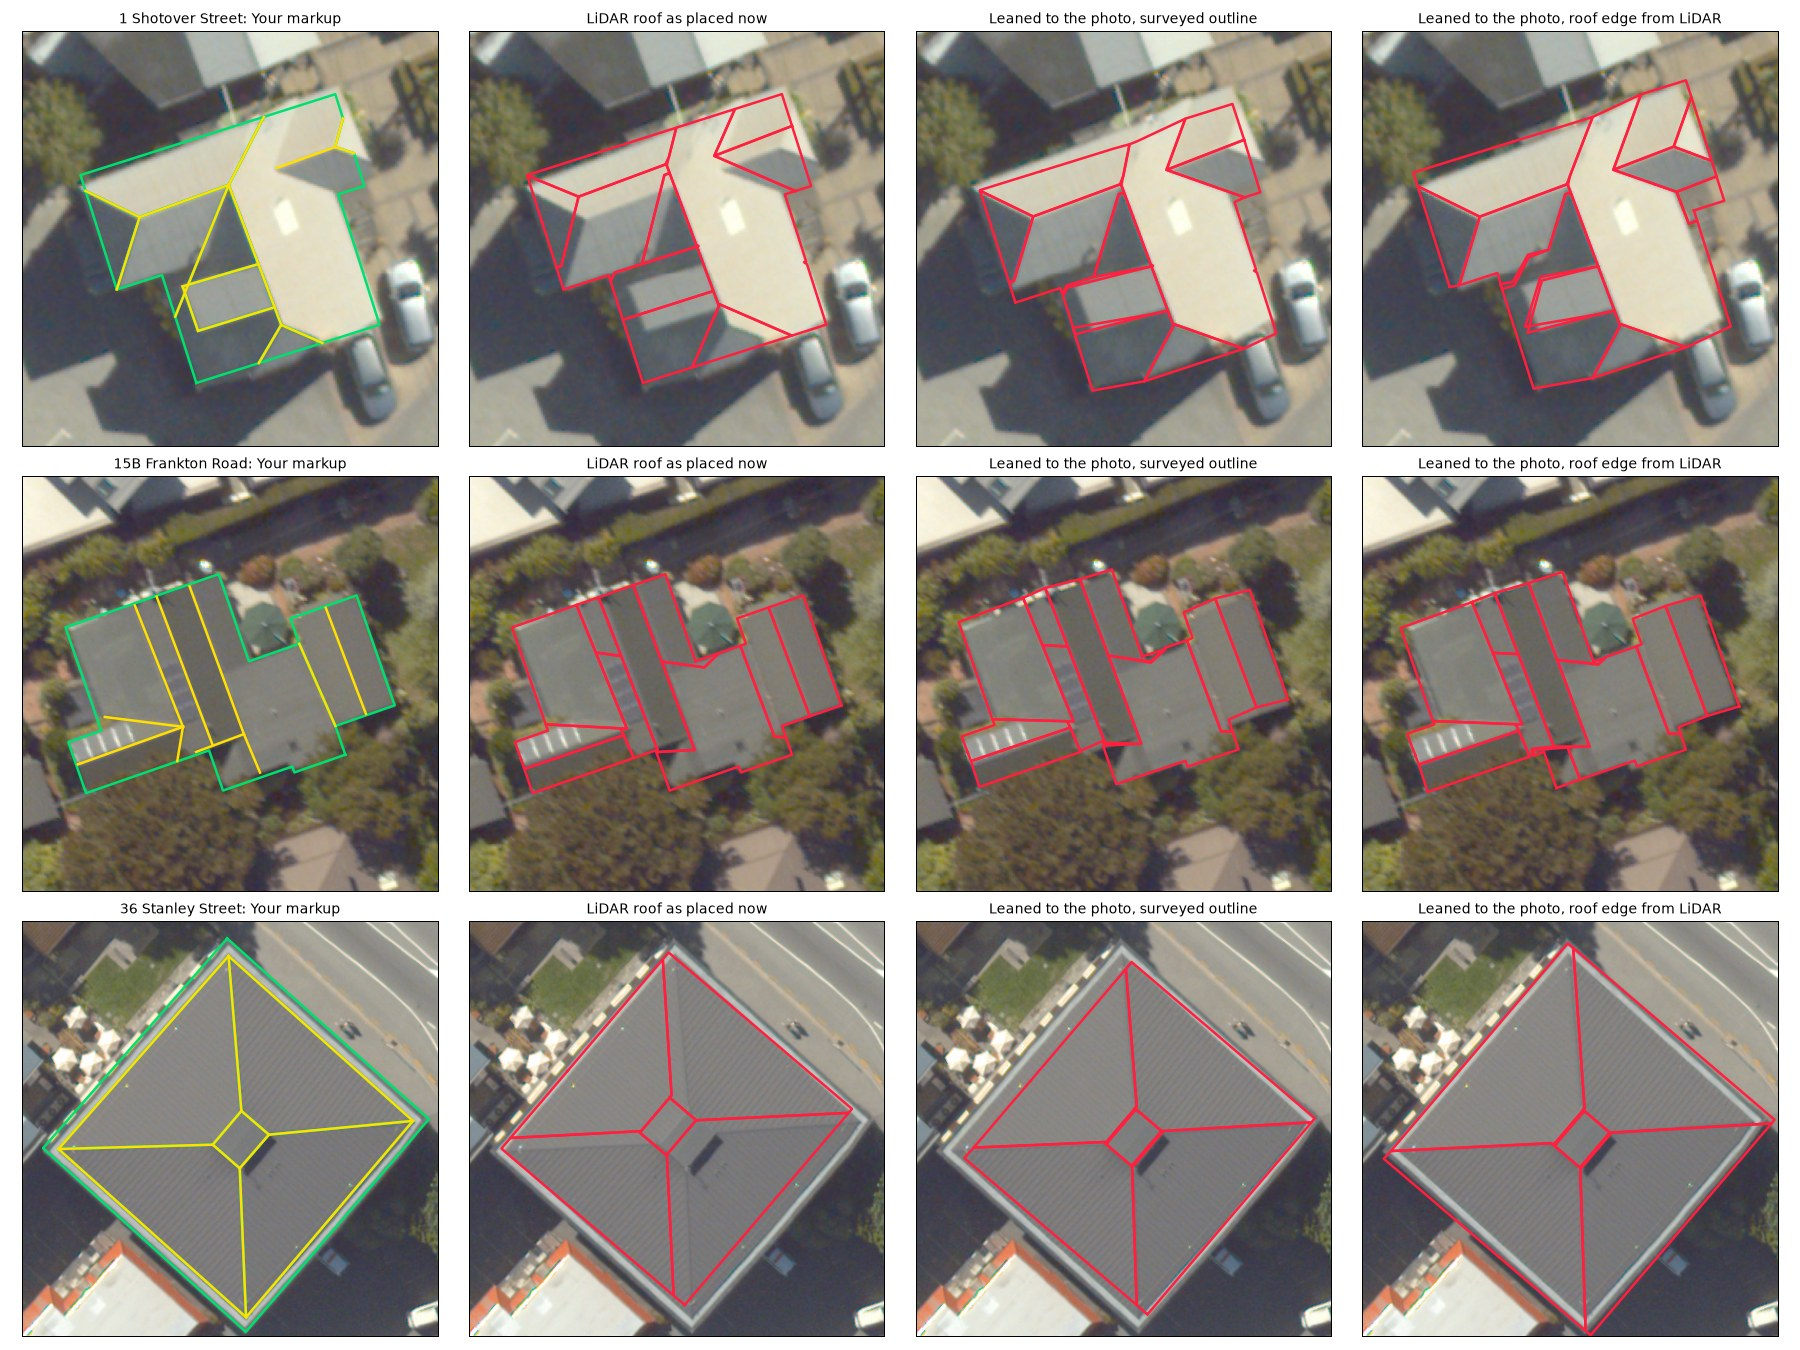
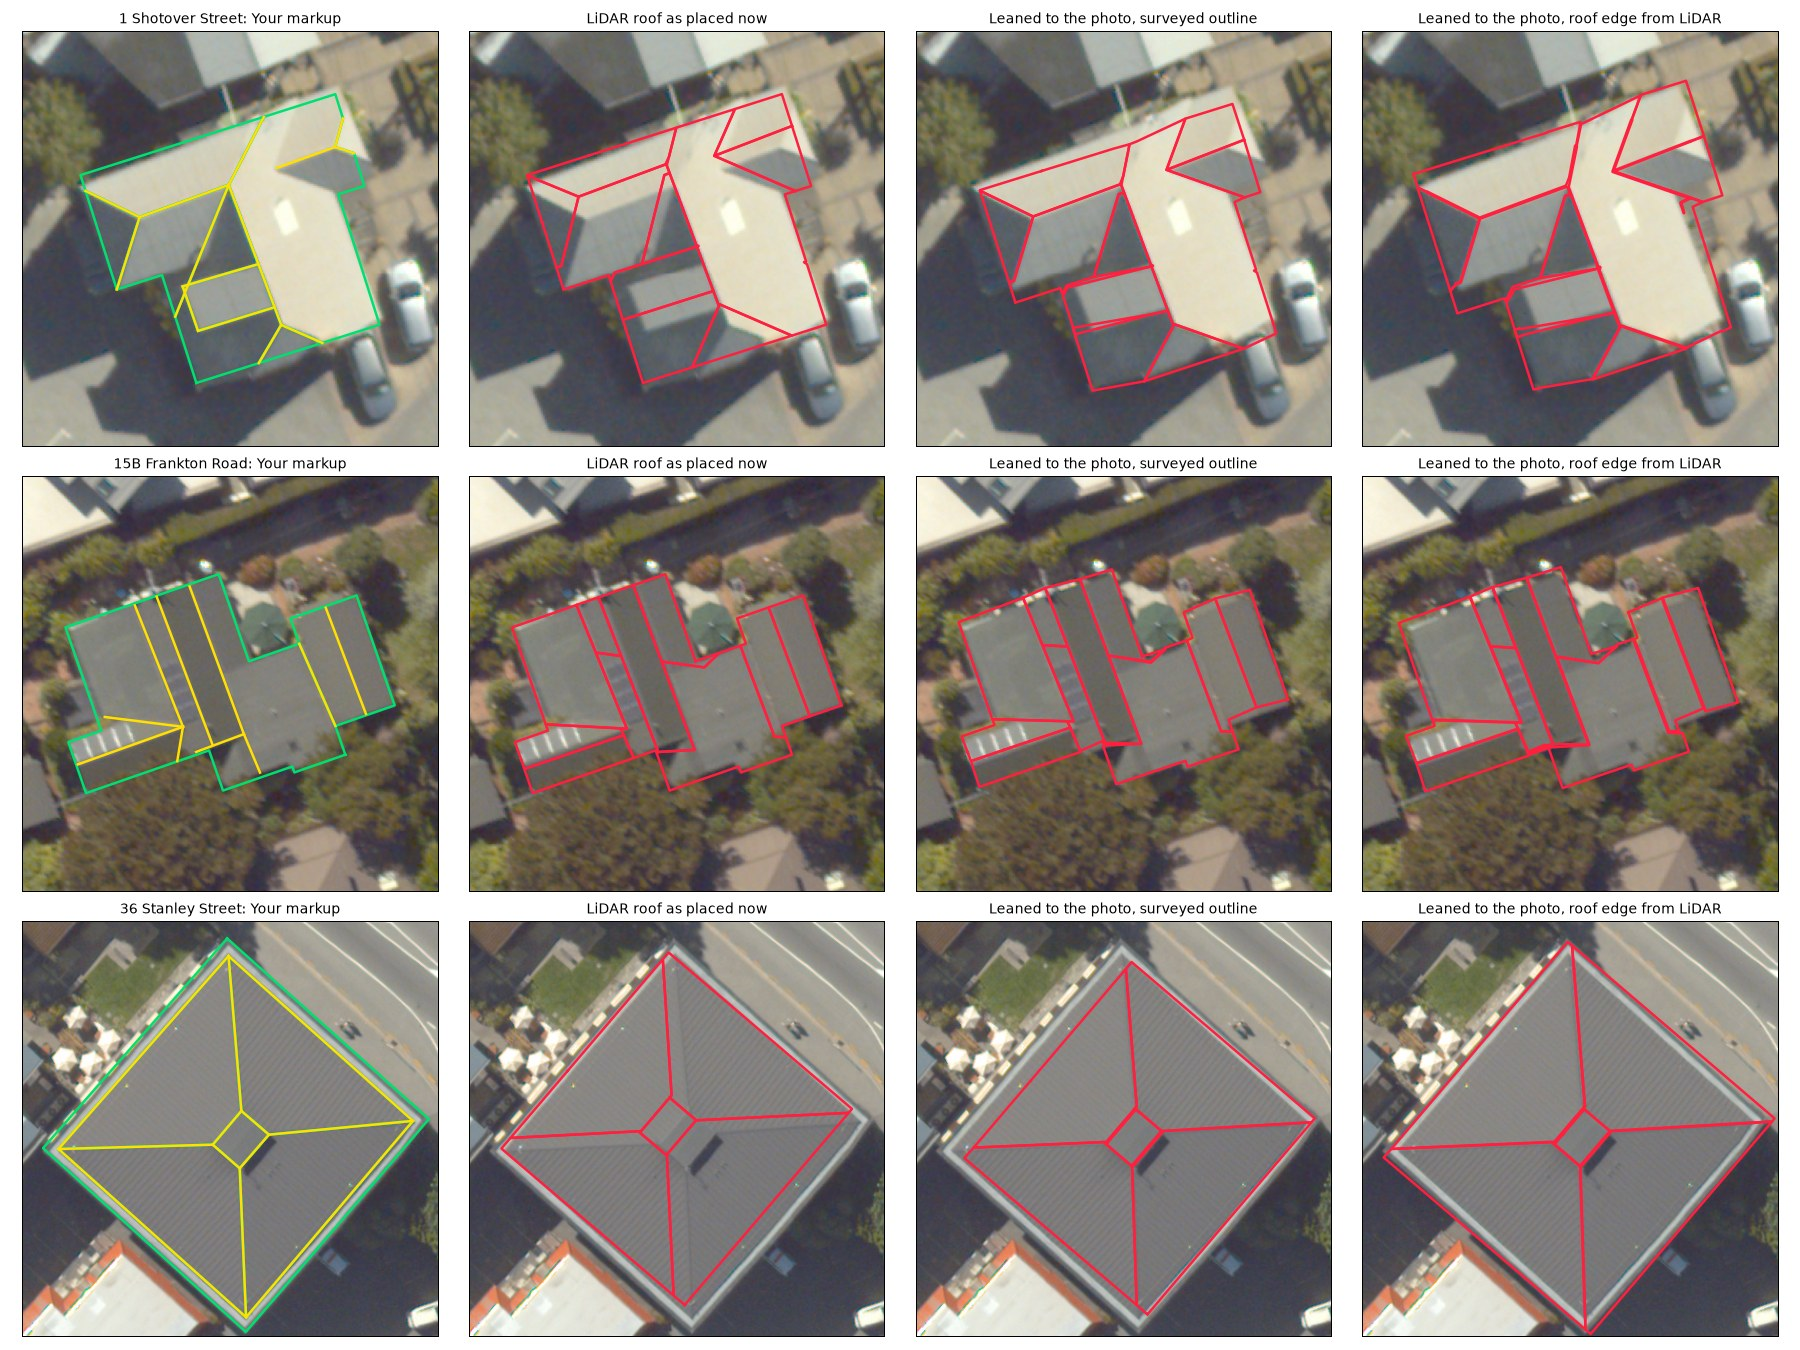
Roof edge: fit only walls with enough returns, extend faces to the edge, tree rule (experiment)

diff --git a/tools/experiments/roof_edge.py b/tools/experiments/roof_edge.py
@@ -109,6 +109,7 @@ OUT_MAX_M = 2.0       # eaves, verandas
 IN_MAX_M = 1.0
 DENSITY_SHARE = 0.4   # of the roof's own density: under this the strip is not roof
 HALF_SPACING_M = 0.1
+MIN_STRIP_RETURNS = 10
 
 
 def own_returns(pr, poly, reach=REACH_M):
@@ -126,6 +127,21 @@ def own_returns(pr, poly, reach=REACH_M):
     return pts[keep]
 
 
+def tree_returns(pr, poly, reach=REACH_M):
+    """Vegetation returns (LAS classes 3-5) over or beside the roof: x, y, z."""
+    minx, miny, maxx, maxy = poly.buffer(reach + 1).bounds
+    xs, ys, zs = [], [], []
+    P = pr.pc()
+    for path in P._tiles_overlapping(minx, miny, maxx, maxy):
+        tx, ty, tz, tc = P._load_tile(path)
+        m = (tx >= minx) & (tx <= maxx) & (ty >= miny) & (ty <= maxy) & (tc >= 3) & (tc <= 5)
+        xs.append(tx[m]); ys.append(ty[m]); zs.append(tz[m])
+    return np.column_stack([np.concatenate(xs), np.concatenate(ys), np.concatenate(zs)]) if xs else np.zeros((0, 3))
+
+
+TREE_SHARE = 0.2      # of a wall's length under vegetation: the returns cannot say where it ends
+
+
 def fit_edges(pr, poly):
     """`poly` with each long edge moved along its normal to where the roof's
     returns stop. Returns (polygon, moves) or (poly, None)."""
@@ -137,6 +153,7 @@ def fit_edges(pr, poly):
     if len(P) < 60:
         return poly, None
     inside = contains_xy(poly, P[:, 0], P[:, 1])
+    V = tree_returns(pr, poly)
     rho = inside.sum() / max(poly.area, 1.0)
     c = np.array(poly.exterior.coords)[:-1]
     n = len(c)
@@ -144,10 +161,30 @@ def fit_edges(pr, poly):
     for i in range(n):
         a, b = c[i], c[(i + 1) % n]
         t = b - a; L = np.hypot(*t)
-        if L < EDGE_MIN_M:
+        # a wall is fitted only where its strip holds enough returns to
+        # read a density from: 1 Shotover Street's 2.4 m wall expected 5
+        # and moved 1 m inwards on noise
+        if L < EDGE_MIN_M or (L - 0.6) * STRIP_M * rho < MIN_STRIP_RETURNS:
             continue
         t = t / L; nrm = np.array([t[1], -t[0]])
+        # a tree over the wall hides the roof under it: where the returns
+        # stop there is where the tree starts, so the wall keeps the roof's
+        # typical move
         rel = P[:, :2] - a
+        if len(V):
+            # only vegetation at or above this wall's roof, over the roof
+            # side of the wall, hides anything: every vegetation return
+            # within reach stopped 192 of 365 walls on 50 roofs (garden
+            # shrubs beside the wall)
+            al0, ac0 = rel @ t, rel @ nrm
+            nearwall = (al0 > 0) & (al0 < L) & (ac0 > -1.5) & (ac0 <= 1.0)
+            if nearwall.sum() >= 5:
+                zr = np.median(P[nearwall, 2])
+                rv = V[:, :2] - a
+                va, vc = rv @ t, rv @ nrm
+                hit = va[(va > 0) & (va < L) & (vc > -IN_MAX_M) & (vc < 0.5) & (V[:, 2] > zr - 0.3)]
+                if len(np.unique((hit / 0.5).astype(int))) * 0.5 > TREE_SHARE * L:
+                    continue
         along = rel @ t; across = rel @ nrm
         on = (along > 0.3) & (along < L - 0.3)
         best = None
@@ -166,10 +203,9 @@ def fit_edges(pr, poly):
         moves[i] = (float(np.percentile(last, 95)) + HALF_SPACING_M) if len(last) >= 5 else best
     if all(m is None for m in moves):
         return poly, None
-    for i in range(n):           # short edges: the mean of the nearest fitted neighbours
-        if moves[i] is None:
-            nb = [moves[j % n] for j in (i - 1, i + 1) if moves[j % n] is not None]
-            moves[i] = float(np.mean(nb)) if nb else 0.0
+    # unfitted walls take the roof's typical move: eaves run all round a roof
+    typical = float(np.median([m for m in moves if m is not None]))
+    moves = [typical if m is None else m for m in moves]
     lines = []
     for i in range(n):
         a, b = c[i], c[(i + 1) % n]
@@ -189,3 +225,65 @@ def fit_edges(pr, poly):
     if g.is_empty or g.geom_type != "Polygon" or not (0.6 * poly.area < g.area < 1.8 * poly.area):
         return poly, None
     return g, moves
+
+
+def extend_to_edge(faces, edge, reach=3.0):
+    """The same faces, run out (or cut back) to `edge`.
+
+    The inner partition is not redone on the moved outline: on 1 Shotover
+    Street a wall moved by half a metre changed which cells the labelling
+    joined and redrew a hip end that was right. A face is a plane, so past
+    the old outline it simply continues: the strip between the old outline
+    and the edge is cut by every seam carried straight on, and each piece
+    joins the face it lies against."""
+    from shapely.geometry import LineString
+    from shapely.ops import polygonize
+    polys = [f["poly"] for f in faces]
+    old = unary_union([p.buffer(0.02) for p in polys]).buffer(-0.02)
+    strips = edge.difference(old.buffer(0.01))
+    cuts = []
+    for i, p in enumerate(polys):
+        for q in polys[i + 1:]:
+            s = p.boundary.intersection(q.buffer(0.05))
+            for g in getattr(s, "geoms", [s]):
+                if g.geom_type != "LineString" or g.length < 0.5:
+                    continue
+                # direction from a stretch set back from the end: the last
+                # 5 cm of a shared boundary turns along the outline
+                L = g.length
+                for d0, d1 in ((0.6, 0.1), (L - 0.6, L - 0.1)):
+                    pa, pb = g.interpolate(min(max(d0, 0), L)), g.interpolate(min(max(d1, 0), L))
+                    end = g.interpolate(0 if d1 < d0 else L)
+                    if end.distance(old.boundary) > 0.3:
+                        continue
+                    d = np.array([pb.x - pa.x, pb.y - pa.y]); n = np.hypot(*d)
+                    if n < 1e-6:
+                        continue
+                    d = d / n
+                    cuts.append(LineString([(pb.x, pb.y), (pb.x + d[0] * reach, pb.y + d[1] * reach)]))
+    pieces = []
+    for st in getattr(strips, "geoms", [strips]):
+        if st.is_empty or st.geom_type != "Polygon" or st.area < 0.05:
+            continue
+        net = unary_union([st.boundary] + [c for c in cuts if c.intersects(st)])
+        ps = [g for g in polygonize(net) if g.representative_point().within(st.buffer(0.01))]
+        pieces.extend(ps or [st])
+    out = [dict(f, poly=f["poly"].intersection(edge)) for f in faces]
+    for pc in pieces:
+        best, bl = None, 0.05
+        for i, f in enumerate(faces):
+            sh = pc.boundary.intersection(f["poly"].buffer(0.06)).length
+            if sh > bl:
+                best, bl = i, sh
+        if best is not None:
+            out[best]["poly"] = out[best]["poly"].union(pc.buffer(0.03)).buffer(-0.02)
+    res = []
+    for f in out:
+        p = f["poly"]
+        if p.is_empty:
+            continue
+        if p.geom_type != "Polygon":
+            p = max(p.geoms, key=lambda g: g.area) if hasattr(p, "geoms") else None
+        if p is not None and p.geom_type == "Polygon" and p.area > 0.3:
+            res.append(dict(f, poly=p))
+    return res

diff --git a/tools/experiments/photo_lean_sheet.py b/tools/experiments/photo_lean_sheet.py
@@ -22,7 +22,7 @@ for row, bid in enumerate(ids):
     b = (cx - s / 2, cy - s / 2, cx + s / 2, cy + s / 2)
     px = np.moveaxis(img.read([1, 2, 3], window=from_bounds(*b, transform=img.transform), boundless=True), 0, -1)
     _p = O[bid] if O[bid].geom_type == 'Polygon' else max(O[bid].geoms, key=lambda g: g.area)
-    e, _ = RE.fit_edges(pr, translate(_p, *r['shift'])); pr.REGISTER = False; r2 = pr.reconstruct(bid, e); pr.REGISTER = True
+    e, _ = RE.fit_edges(pr, translate(_p, *r['shift'])); r2 = dict(r, faces=RE.extend_to_edge(r['faces'], e))
     org2 = (r2['poly'].centroid.x, r2['poly'].centroid.y); k2 = PL.photo_lean(r2['faces'], org2, img)
     sets = [('Your markup', drawn, '#00e070', st), ('LiDAR roof as placed now', [f['poly'] for f in r['faces']], '#ff2040', []),
             ('Leaned to the photo, surveyed outline', PL.leaned(PL.absorb_slivers(r['faces']), org, k[0], k[1]), '#ff2040', []),

diff --git a/tools/experiments/roof_edge_check.py b/tools/experiments/roof_edge_check.py
@@ -38,7 +38,7 @@ def one(row):
             if name == 'outline': r = r0
             else:
                 e, _ = RE.fit_edges(pr, translate(poly, *r0['shift']))
-                pr.REGISTER = False; r = pr.reconstruct(bid, e); pr.REGISTER = True
+                r = dict(r0, faces=RE.extend_to_edge(r0['faces'], e))
             org = (r['poly'].centroid.x, r['poly'].centroid.y)
             k = PL.photo_lean(r['faces'], org, _I); ln = PL.leaned(PL.absorb_slivers(r['faces']), org, k[0], k[1]) if k else [f['poly'] for f in r['faces']]
             go = close(ln); gl = M._lines(ln, go)

diff --git a/BACKLOG.md b/BACKLOG.md
@@ -397,6 +397,27 @@ roofs still on the map lost face area, and about 10 big drops were rendered.
 
 ## Roof lines
 
+- **Roof edge from the returns: owner prefers it; faces extended, not
+  re-partitioned; tree rule (16 Nov, experiment).** Owner's verdict on
+  `docs/review/three_houses_16nov_roof_edge.jpg`: the edge from the LiDAR
+  is better than the surveyed outline. Three rules added to
+  `tools/experiments/roof_edge.py` since the entry below: (1) a wall is
+  fitted only when its strip expects 10 or more returns (1 Shotover
+  Street's 2.4 m wall expected 5 and moved 1 m inwards on noise); unfitted
+  walls take the roof's median move. (2) `extend_to_edge`: the faces found
+  on the surveyed outline are kept and run out to the fitted edge, the
+  eave strip cut by each seam carried straight on; re-partitioning on the
+  moved outline redrew a hip end on Shotover that was right. (3) Owner: a
+  tree over the roof edge makes the returns a bad guide. A wall with
+  vegetation returns at or above its roof height over 20% of its length,
+  on the roof side, is not fitted: 46 of 525 walls on 14 of the 50 marked
+  roofs (counting every vegetation return within reach stopped 192 of 365:
+  garden shrubs). The tree rule is untested against a known overhang.
+  Inner lines on the 50, surveyed outline / extended to the fitted edge:
+  right at 0.3 m 28 / 24, at 0.75 m 33 / 33; the drop is seams carried
+  through the eave strip, which the markup (outer edge = surveyed outline)
+  does not have. Not in the build or the map.
+
 - **Roof edge wall by wall from the returns (16 Nov, experiment; owner
   confirmed the markup's outer edge is the surveyed outline the tool gave,
   so the markup cannot judge roof edges).** `roof_edge.fit_edges`: the
